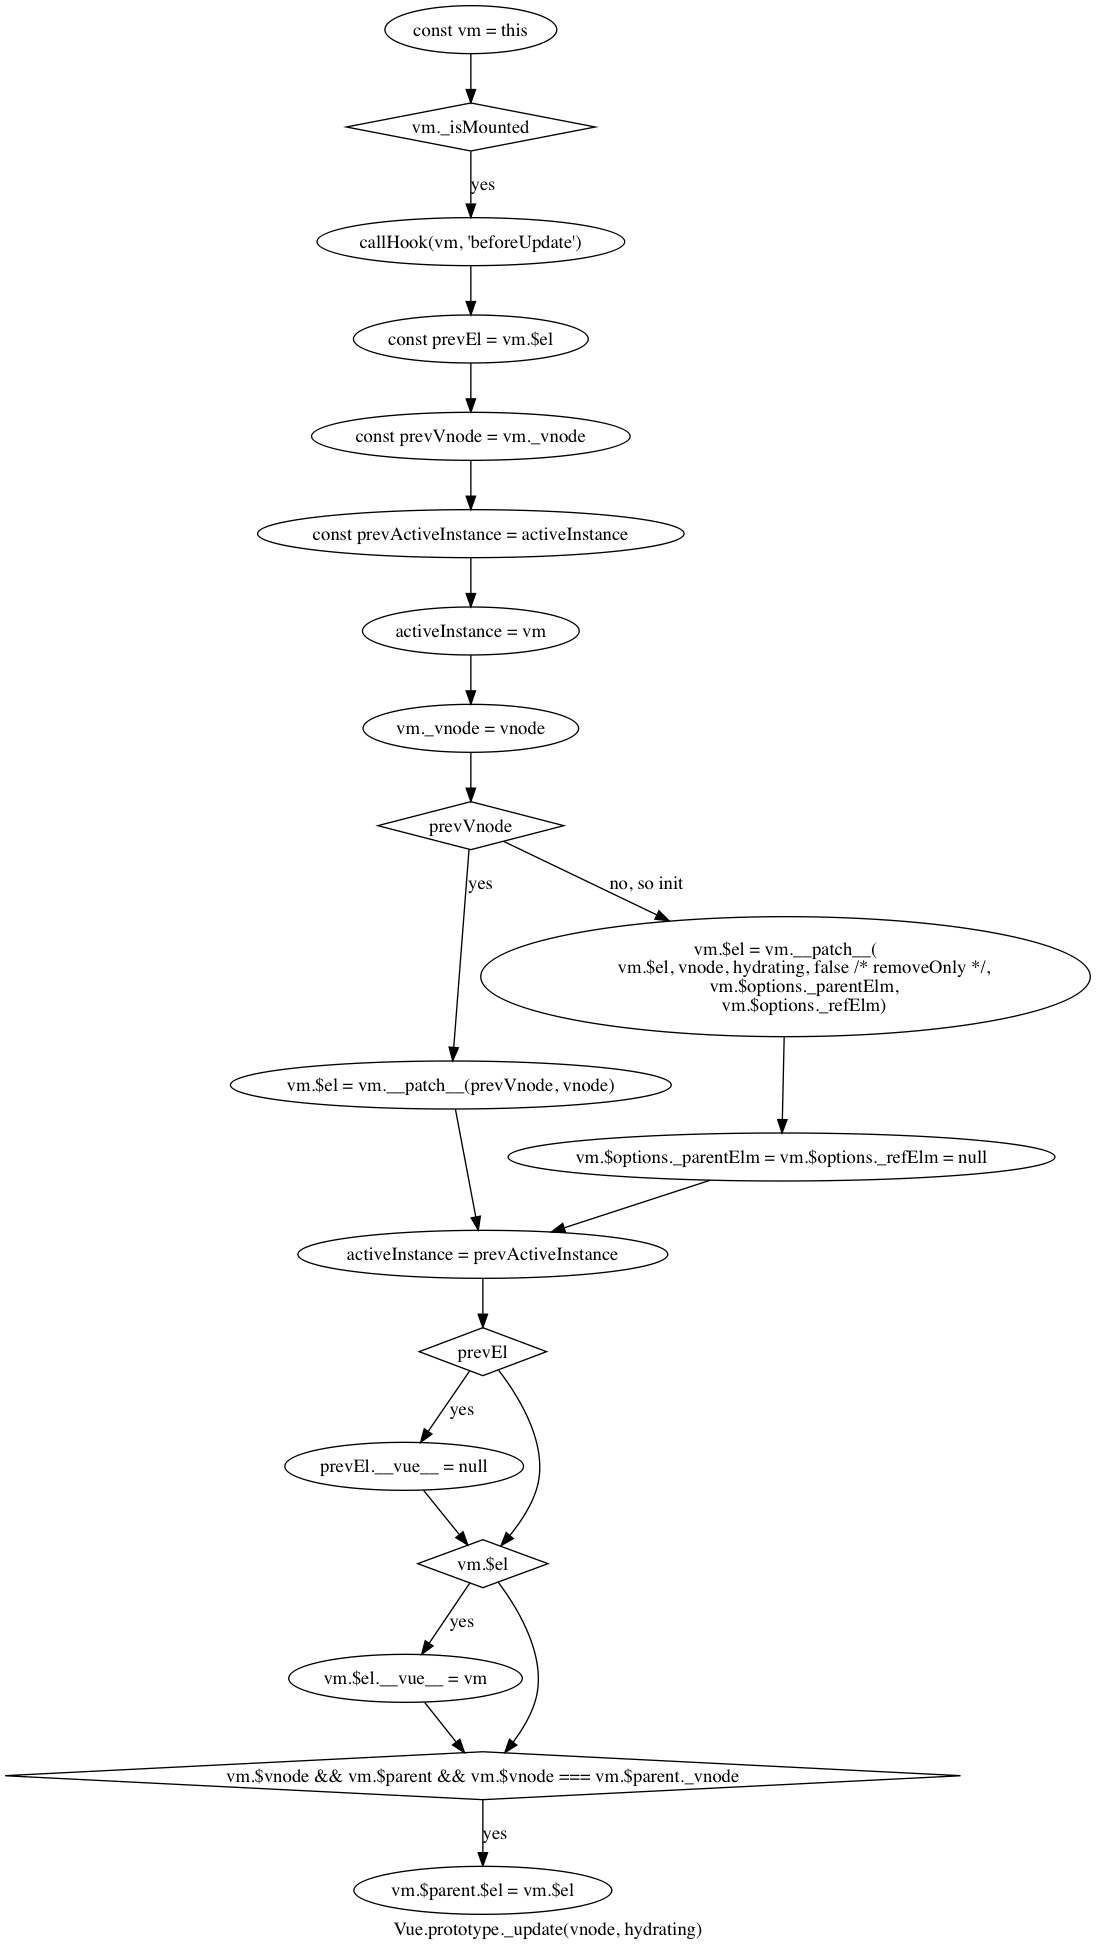
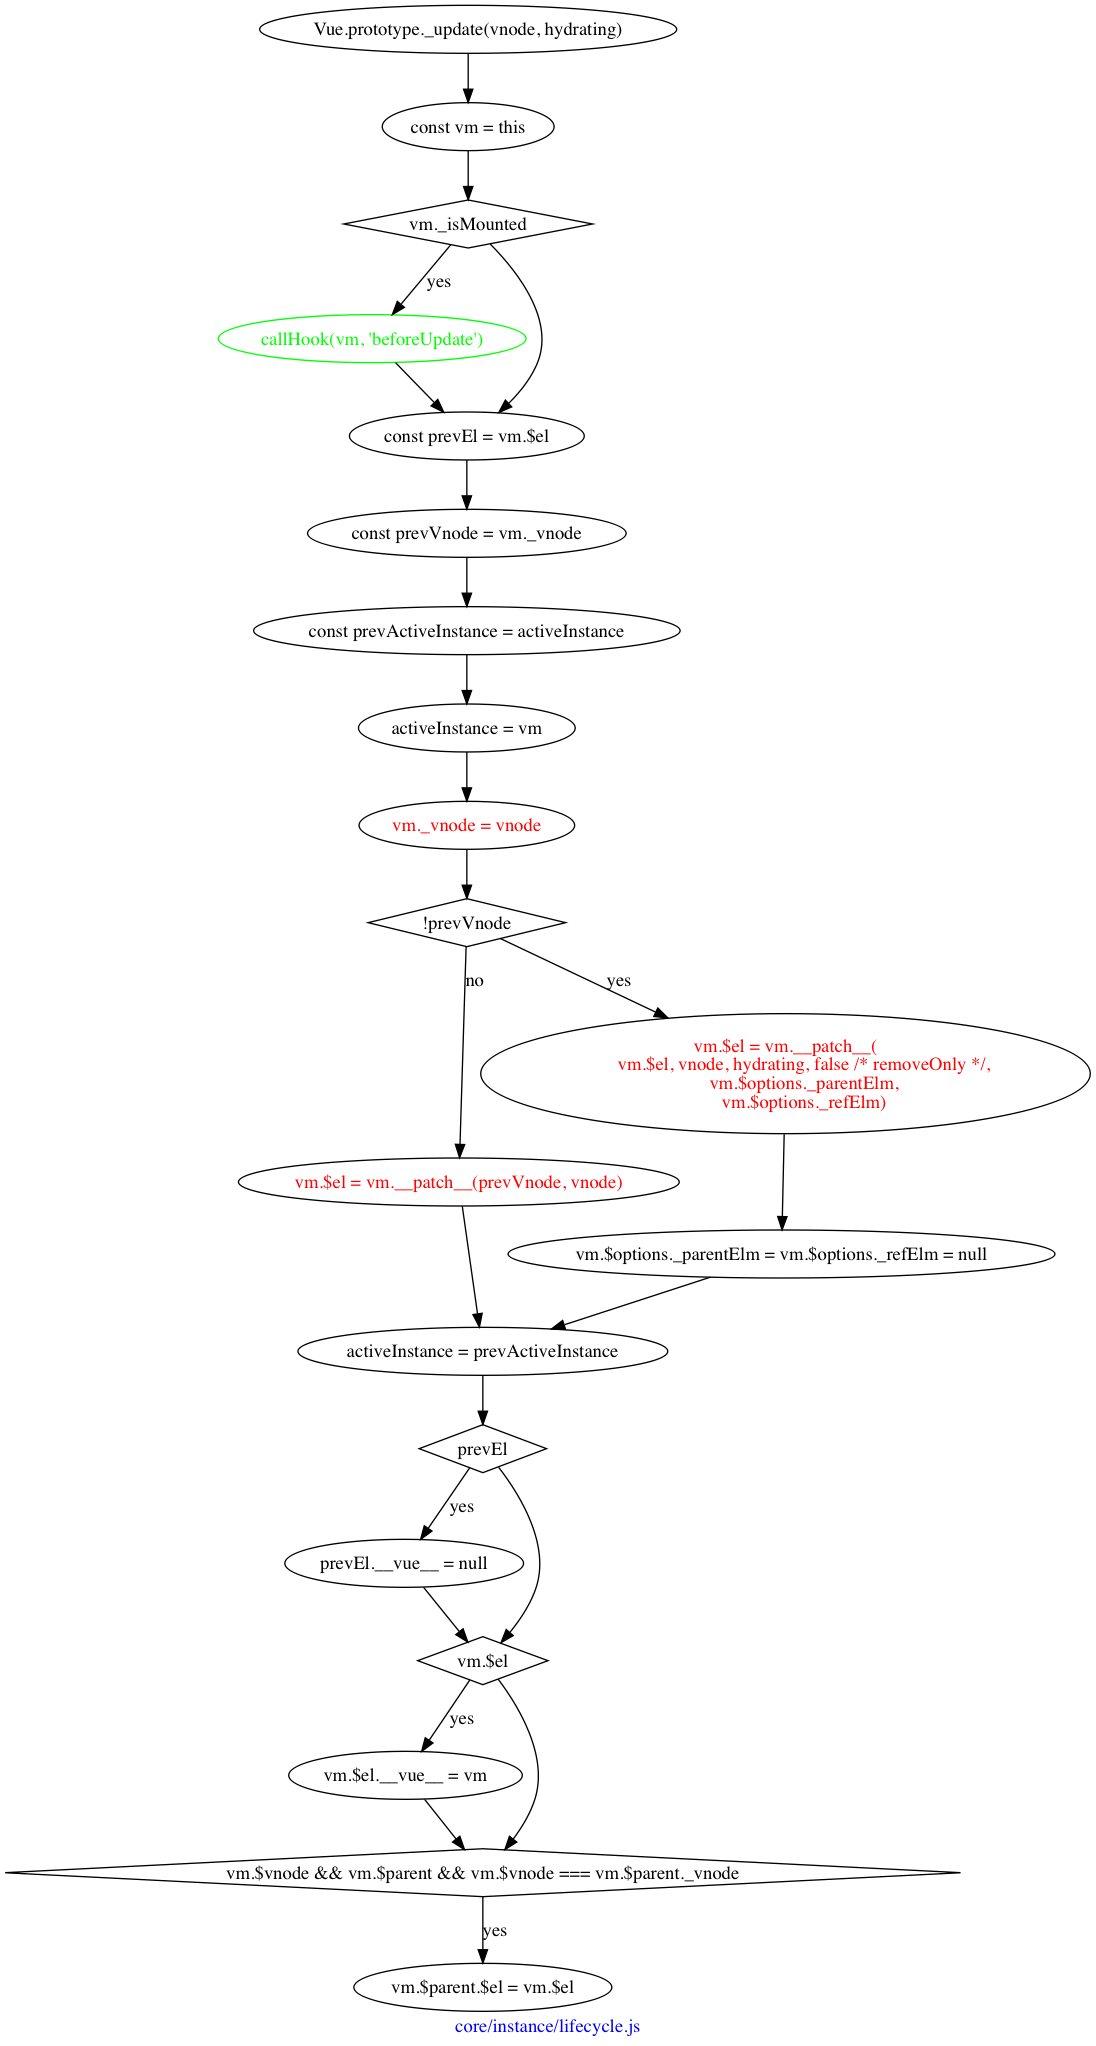
【完成】最简流程介绍

Changed region(s): [[0.0, 0.0, 0.9617, 1.0]]

diff --git a/README.md b/README.md
@@ -290,6 +290,18 @@ this.value = this.lazy ? undefined : this.get()
 
 #### Watcher.prototype.get
 
+![watcher.prototyp.eget](./watcherGet.png)
+
+其实就是调用了`this.getter`，也就是在实例化`Watcher`时传入的第二个参数，在`mountComponent`中就是`updateComponent`函数。
+
+```javascript
+updateComponent = () => {
+    const vnode = vm._render();
+    vm._update(vnode, hydrating)
+}
+```
+
+首先获取`vnode`，然后根据`vnode`更新`DOM`，如果没猜错应该是这样。
 
 
 ### vm._render
@@ -300,7 +312,7 @@ this.value = this.lazy ? undefined : this.get()
 
 - vm.$vnode = _parentVnode
 
-`render`函数是由模板解析得到的，我们直接查看下`vnode`到底是什么
+`render`函数是由模板解析得到的或者我们直接声明的，我们先看下`vnode`到底是什么
 
 ```javascript
 vnode = VNode {
@@ -349,32 +361,24 @@ vnode = VNode {
 
 ![Vue.prototype._render](./prototypeRender.png)
 
+
 ### vm._update
 
-顾名思义，更新实例。
+这里重点是调用了`vm.__patch__`这个函数，先不说这个函数从哪里来。可以看到这个函数调用的结果赋给了`vm.$el`，这很明显表示`__patch__`调用后的结果是得到`DOM`元素。
+而且可以看到有做`prevVnode`是否存在的判断，如果存在则表示这次`__patch__`是进行更新，否则就是初始化`$el`。
 
-如果是初始化就在调用`patch`时传入不同的参数。如果是更新，就只传入`prevVnode`和`vnode`，如果父节点是`HOC`？就更新父节点的内容`（vm.$parent.$el = vm.$el）`。
+函数最后面，如果父节点是`HOC`？就更新父节点的内容`（vm.$parent.$el = vm.$el）`。
 
 ![Vue.prototype._update](./prototypeUpdate.png)
 
-还没有结束，重点在`patch`函数，该函数内会调用`createElm`，该函数又会调用`createComponent`，然后在函数内会取`vnode.data.hook.init`，然后调用这个`init`函数。
+### patch
 
-![createElm](./patchCreateElm.png)
-![createComponent](./createComponent.png)
+很复杂的一个函数，主要是对传入的`oldVnode`和`vnode`做判断然后分别进行不同的处理，暂时先理解为调用后会返回新的`DOM`节点吧。
 
-所以接下来要断点到`init`函数内看看了。
+### mounted
 
-#### vnode.data.hook.init
+好吧，饶了一大圈之后，我们是回到了`updateComponent()`， 但这个函数并没有返回值，那我们干了什么呢？
+我们得到了`vm.$el`啊，同时还将该`DOM`插入了页面，所以此时代码继续向下执行，就会调用`mounted`钩子。
 
-位于`/core/vdom/create-component.js`文件内。
+最后返回了`vm`，就结束了整个流程。
 
-`init`钩子会调用`prepatch`钩子，而该钩子又调用`updateChildComponent`函数。
-
-![vnode.data.hook.init](./initHook.png)
-
-#### updateChildComponent
-
-最后调用了`$forceUpdate`，而该方法只是调用了`vm._watcher.update()`方法。
-
-![updateChildComponent](./updateChildComponent.png)
- 
